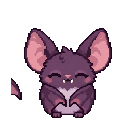
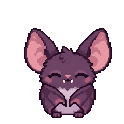
fix: remove stray companion sprite fragments

Changed region(s): [[0.0726, 0.629, 0.1935, 0.8226]]

diff --git a/index.html b/index.html
@@ -24794,6 +24794,6 @@ html[data-atlas-theme="dark"] #atlasPersonaModal .atlas-persona-nick-wrap>span,h
 <script src="assets/atlas-personality-route.js?v=1"></script>
 <!-- ATLAS PIXEL COMPANION -->
 <link rel="stylesheet" href="assets/atlas-companion.css?v=20260929-v2">
-<script src="assets/atlas-companion.js?v=20260930-v3"></script>
+<script src="assets/atlas-companion.js?v=20260930-v4"></script>
 </body>
 </html>

diff --git a/assets/atlas-companion.js b/assets/atlas-companion.js
@@ -50,6 +50,7 @@
   function frame(name){
     if(!img) return;
     img.src = name ? PETS[state.pet].file.replace(/\.png$/, '-'+name+'.png') : PETS[state.pet].file;
+    if(name) img.src += '?v=20260930-clean';
     root.dataset.frame = name || 'idle';
   }
 
